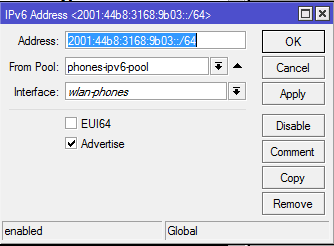
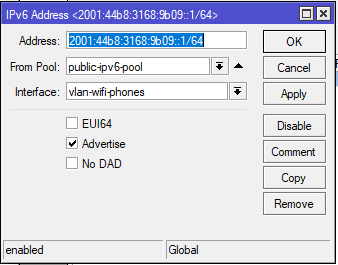
Amend IPv6 config in Mikrotik articles.

Changed region(s): [[0.0, 0.0, 1.0, 1.0]]

diff --git a/source/_posts/Create_Another_Network_On_A_Mikrotik.md b/source/_posts/Create_Another_Network_On_A_Mikrotik.md
@@ -1,6 +1,7 @@
 ---
 title: Create Another WiFi Network on a Mikrotik Router
 date: 2016-10-04
+updated: 2018-11-10
 tags:
 - Mikrotik
 - Network
@@ -163,43 +164,32 @@ And the domain to `ligos.local`.
 
 ```
 
-### 5. Assign an IPv6 Pool and Address
+### 5. Assign an IPv6 <strike>Pool and</strike> Address
 
 I also have a public IPv6 range assigned by my ISP, so I add an IPv6 address as well.
-You need to create an IPv6 pool first, based on your public address assignment, before you can advertise it on an interface or assign an address.
+
+<strike>You need to create an IPv6 pool first, based on your public address assignment, before you can advertise it on an interface or assign an address.</strike>
 Also, because there's much more auto discovery built into IPv6, config is much less complicated.
 
-Goto **IPv6** -> **Pool** and then add a new pool.
+**Update 2018-11-10:** Mikrotik now validates overlapping address pools, so you should just add new addresses which use the public pool. 
 
-I'm simply assigning `/64` subnets (from my `/56` public allocation) to each network.
-This gives me 255 subnets for 255 networks (which is plenty, given I don't event have 255 devices!) 
-There's no static assignments, so no address range exclusions like for IPv4.
-
-<img src="/images/Create-Another-Network-On-A-Mikrotik/ipv6-pool.png" class="" width=300 height=300 alt="The IPv6 Pool" />
-
-```
-[admin@Mikrotik-gateway] /ipv6 pool> print
-Flags: D - dynamic 
- #   NAME                         PREFIX                           
- 3   phones-ipv6-pool             2001:44b8:3168:9b03::/64  
-```
-
-Now, goto **IPv6** -> **Address**.
+Goto **IPv6** -> **Address**.
 You'll note that link local addresses (starting with `fe80`) have been dynamically created for your new interface.
 This is totally normal. 
 
 Now, add a new address.
-I use the same address for the router as for the pool.
-And set the correct pool and interface.
 
 <img src="/images/Create-Another-Network-On-A-Mikrotik/ipv6-address.png" class="" width=300 height=300 alt="The IPv6 Address" />
+
+Note, RouterOS version 6.43.4 seems to ignore whatever prefix you type in (the bit between the `/56` your ISP assigns you and the `::1/64`) and assign the next highest one.
+I'm not sure if that's by design or a bug, but its a little annoying.
 
 ```
 [admin@Mikrotik-gateway] /ipv6 address> print
 Flags: X - disabled, I - invalid, D - dynamic, G - global, L - link-local 
  #    ADDRESS                        FROM-POOL INTERFACE     ADVERTISE
  8 DL fe80::4c5e:cff:feb8:d8d1/64              wlan-phones   no       
- 9  G 2001:44b8:3168:9b03::/64       phones... wlan-phones   yes      
+ 9  G 2001:44b8:3168:9b09::1/64      public... wlan-phones   yes      
 ```
 
 ### 6. Add Firewall Rules

diff --git a/source/_posts/Use-A-Mikrotik-As-Your-Home-Router.md b/source/_posts/Use-A-Mikrotik-As-Your-Home-Router.md
@@ -1,7 +1,7 @@
 ---
 title: Use a Mikrotik as Your Home Router
 date: 2017-02-16
-updated: 2017-04-01
+updated: 2018-11-10
 tags:
 - Mikrotik
 - Router
@@ -637,7 +637,7 @@ Next step is to assign a public IPv6 address to your router.
 (Note that your router will already have link local IPv6 addresses starting with `fe80`, that is normal).
 
 In *IPv6 -> Addresses*, add a new address.
-You can set the right-hand part of the address to be whatever you want, but I use the same address as the network mask (making my router device 0 on my network).
+You enter your public address, and then give your router an address such as `00::1/64`, which makes my router's address `2001:44b8:3168:9b00::1/64`.
 Select your LAN bridge as the interface to assign to.
 And the *pool* you just created from DHCP.
 Finally, make sure you enable *Advertise*, as that is the way your devices will get IPv6 addresses (via router advertisements).
@@ -689,15 +689,18 @@ And from here, you can enjoy IPv6 connections to [Facebook](https://www.facebook
 Probably without noticing any difference at all.
 
 
-#### 6f - Another Pool for Another Network
+#### 6f - Another <strike>Pool</strike> Address for Another Network
 
-Finally, if you have a guest network configured with a separate IPv4 subnet, you can assign a second IPv6 subnet to it as well.
+**Update 2018-11-10:** Mikrotik now validates overlapping address pools, so you should just add new addresses which use the public pool. 
 
-All you need to do is add a new pool, with the next IPv6 subnet (for me, that would be `2001:44b8:3168:9b01::/64`).
-Then, just like you did before, add a new IPv6 address to your guest interface, and enable router advertisements from it.
+If you want IPv6 support on a separate network, just give that interface a new IPv6 address from the public pool.
+And tick the *advertise* box.
+Eg: `2001:44b8:3168:9b01::1/64`
 
-<img src="/images/Use-A-Mikrotik-As-Your-Home-Router/ipv6-pool.png" class="" width=300 height=300 alt="IPv6 Pool" />
+Note, RouterOS version 6.43.4 seems to ignore whatever prefix you type in (the bit between the `/56` your ISP assigns you and the `::1/64`) and assign the next highest one.
+I'm not sure if that's by design or a bug, but its a little annoying.
 
+<img src="/images/Use-A-Mikrotik-As-Your-Home-Router/ipv6-next-address.png" class="" width=300 height=300 alt="IPv6 Address for another network" />
 
 
 ## Extra Functions
